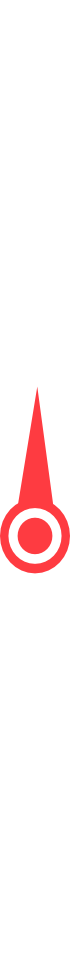
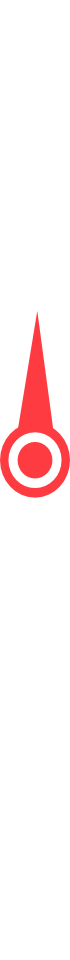
adjusting postion of hands

Changed region(s): [[0.0, 0.3125, 1.0, 0.625]]

diff --git a/Social Alarm version with Clock.html b/Social Alarm version with Clock.html
@@ -37,7 +37,7 @@
     #clock {
     position: relative;
     width: 640px;
-    height: 900px;
+    height: 960px;
     margin: 20px auto 0 auto;
     background: url(https://raw.github.com/kgmodi/smart-alarm/master/CSS3Clock/images/clockface4.png);
     background-repeat: no-repeat;
@@ -60,7 +60,7 @@
     } */
            
     #min {
-    background: url(https://raw.github.com/kgmodi/smart-alarm/master/CSS3Clock/images/minhand.png);
+    background: url(https://raw.github.com/kgmodi/smart-alarm/master/CSS3Clock/images/minhand2.png);
     z-index: 3;
     }
            
@@ -124,7 +124,7 @@
 		<ul id="clock">	
 	   		<li id="sec"></li>
 	   		<li id="hour"></li>
-			<li id="min"></li>
+        <li id="min"></li>
 		</ul>
 	</div> <!--content-->
    	
